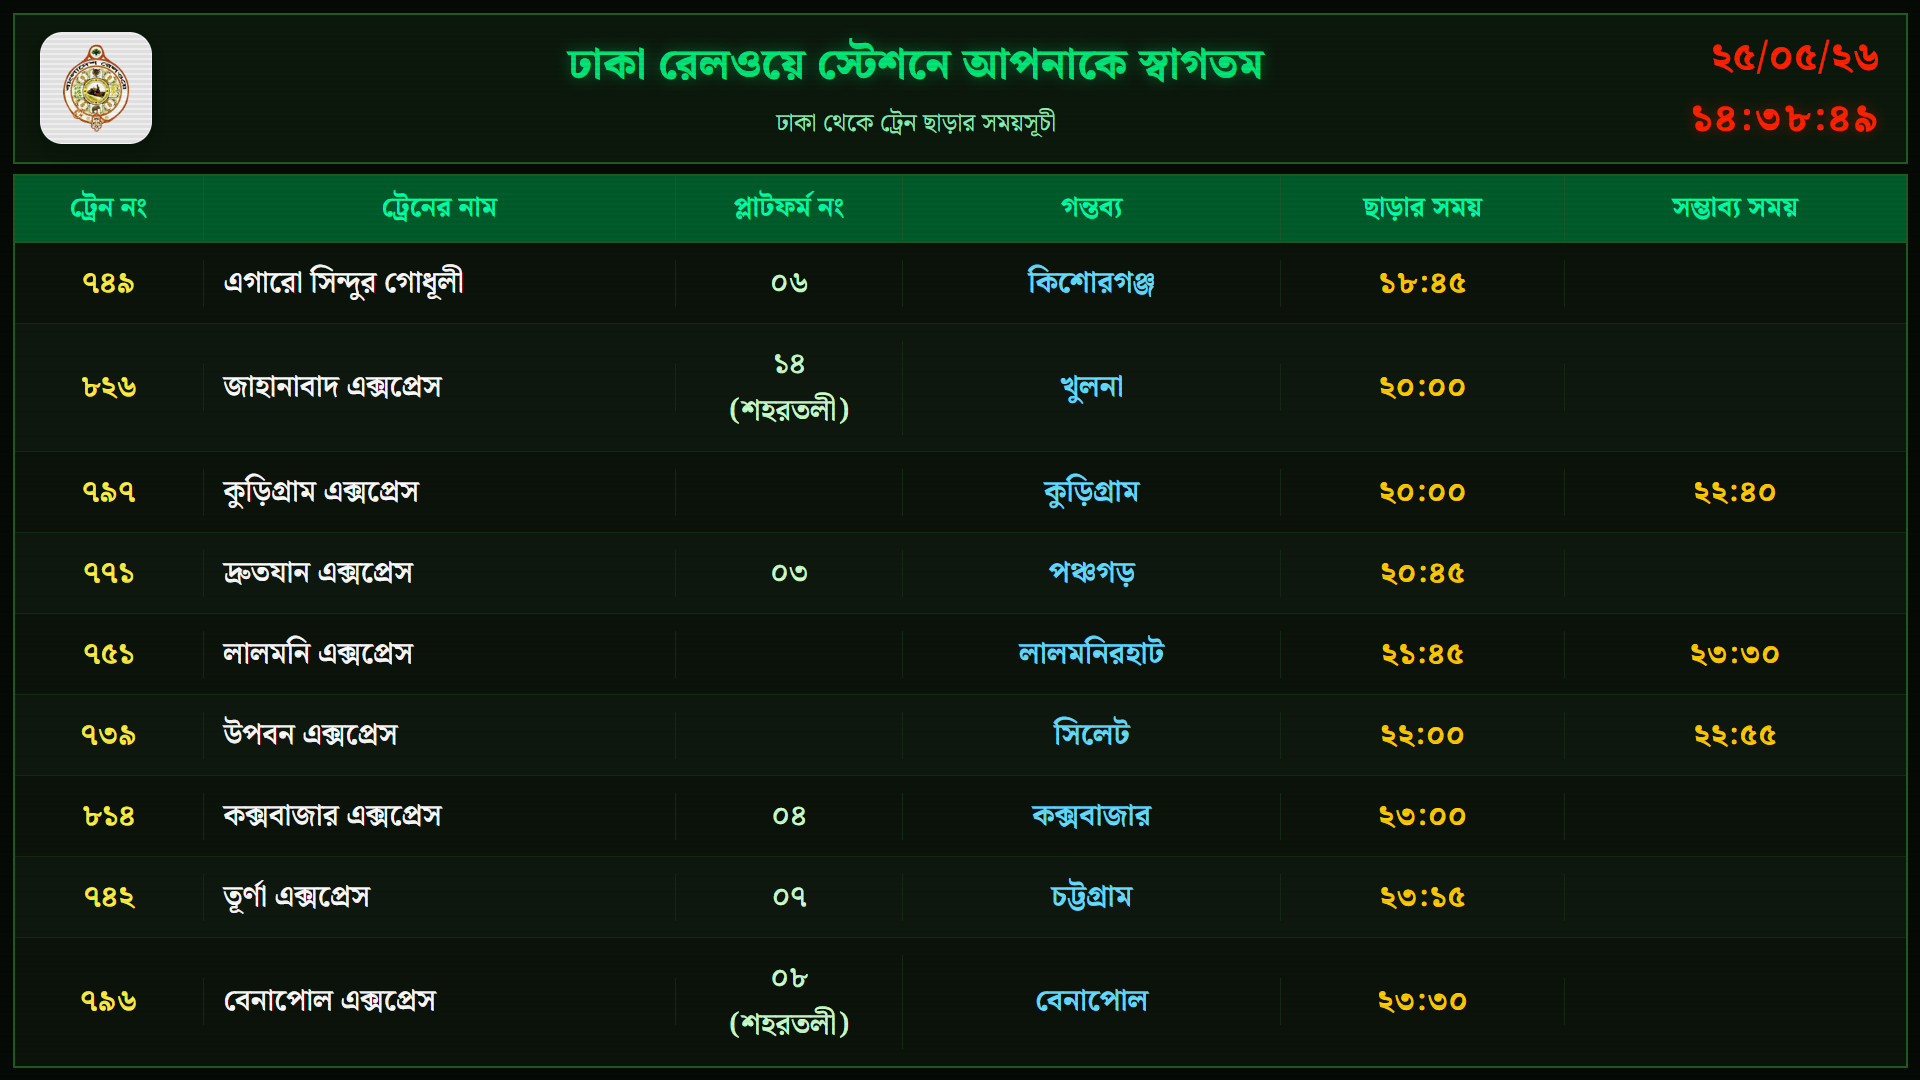
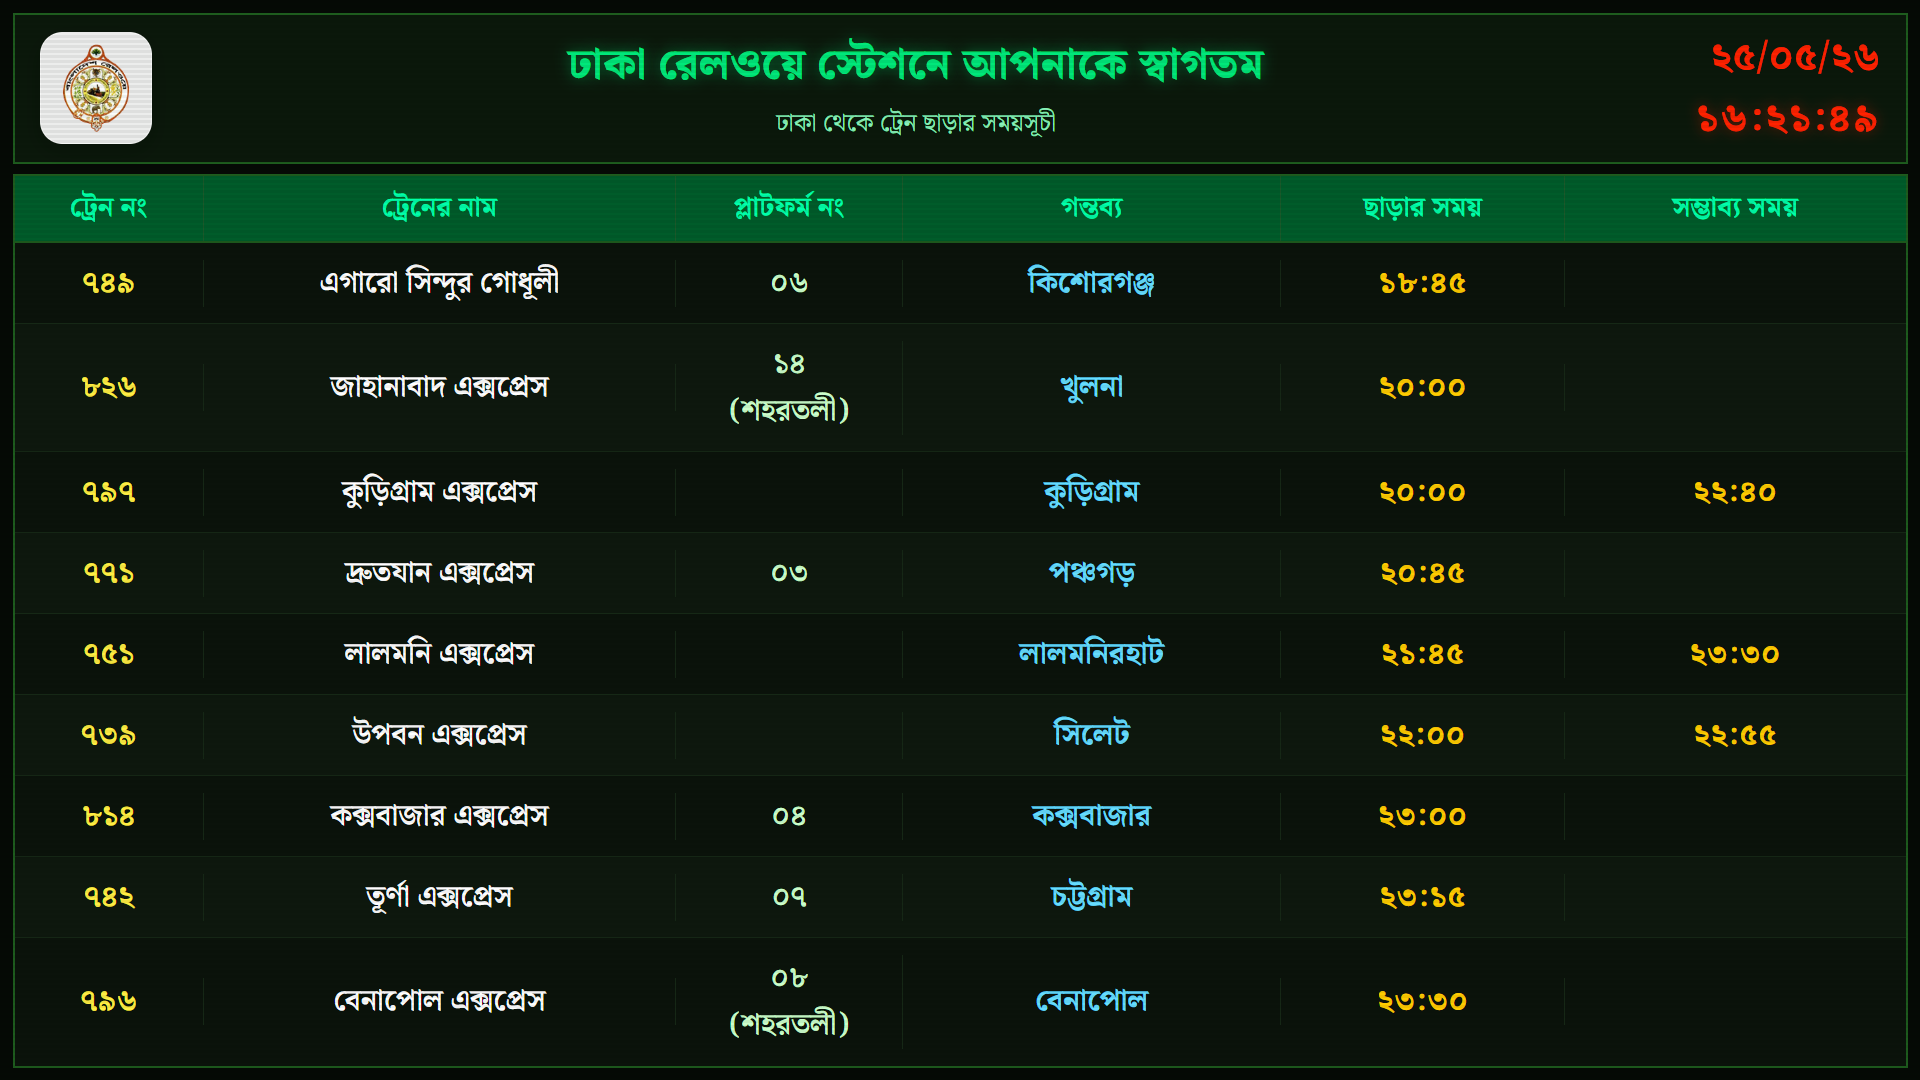
Center .cell-name text and reduce left padding

diff --git a/index.html b/index.html
@@ -163,7 +163,7 @@
     .cell:last-child { border-right: none; }
 
     .cell-num  { color: #ffee44; font-weight: 700; }
-    .cell-name { text-align: left; padding-left: 16px; color: #ffffff; font-weight: 600; }
+    .cell-name { text-align: center; padding-left: 6px; color: #ffffff; font-weight: 600; }
     .cell-plat { color: #ccffcc; font-weight: 600; }
     .cell-dest { color: #66ddff; font-weight: 700; }
     .cell-time { color: #ffcc00; font-weight: 800; letter-spacing: 1px; }